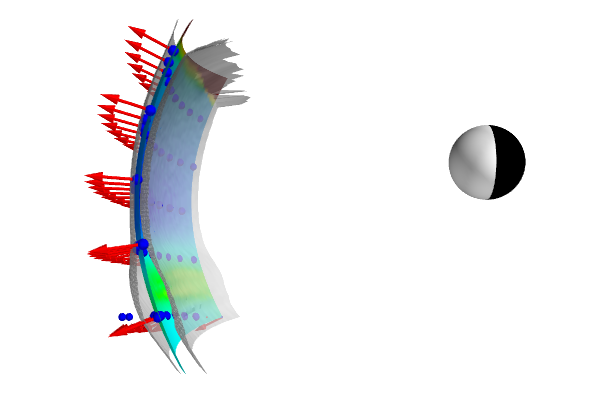
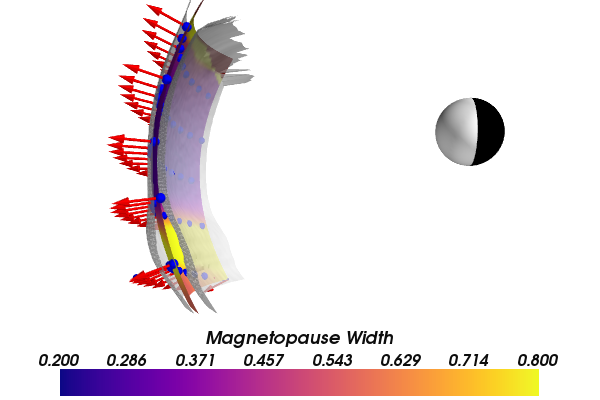
use all mvi wrappers in tests / examples

Changed region(s): [[0.06, 0.0, 0.93, 0.99], [0.72, 0.24, 0.9, 0.51]]

diff --git a/tests/test_mvi.py b/tests/test_mvi.py
@@ -4,19 +4,17 @@ streamlines or something """
 
 from __future__ import print_function
 import argparse
-import sys
 
 from viscid_test_common import sample_dir, next_plot_fname, xfail
-
-try:
-    from mayavi import mlab
-except ImportError:
-    xfail("Mayavi not installed")
 
 import numpy as np
 import viscid
 from viscid import vutil
-from viscid.plot import mvi
+try:
+    from viscid.plot import mvi
+except ImportError:
+    xfail("Mayavi not installed")
+
 
 def main():
     parser = argparse.ArgumentParser(description="Test calc")
@@ -39,7 +37,7 @@ def main():
                                cmap="inferno", logscale=True)
     scp.implicit_plane.normal = [0, 0, -1]
     scp.implicit_plane.origin = [0, 0, 0]
-    cbar = mlab.colorbar(scp, title=pp.name, orientation='vertical')
+    cbar = mvi.colorbar(scp, title=pp.name, orientation='vertical')
 
     ######################################
     # plot a vector cut plane of the flow
@@ -87,7 +85,7 @@ def main():
     bsl2.start()
     bsl2.seed.widget.enabled = False
 
-    cbar = mlab.colorbar(bsl2, title=epar.name, orientation='horizontal')
+    cbar = mvi.colorbar(bsl2, title=epar.name, orientation='horizontal')
     cbar.scalar_bar_representation.position = (0.2, 0.01)
     cbar.scalar_bar_representation.position2 = (0.6, 0.14)
 
@@ -109,18 +107,18 @@ def main():
 
     ####################
     # Finishing Touches
-    # mlab.axes(pp_src, nb_labels=5)
-    oa = mlab.orientation_axes()
+    # mvi.axes(pp_src, nb_labels=5)
+    oa = mvi.orientation_axes()
     oa.marker.set_viewport(0.75, 0.75, 1.0, 1.0)
 
     mvi.resize([1200, 800])
-    mlab.view(azimuth=45, elevation=70, distance=35.0, focalpoint=[-2, 0, 0])
+    mvi.view(azimuth=45, elevation=70, distance=35.0, focalpoint=[-2, 0, 0])
 
     ##############
     # Save Figure
 
     # print("saving png")
-    # mvi.mlab.savefig('mayavi_msphere_sample.png')
+    # mvi.savefig('mayavi_msphere_sample.png')
     # print("saving x3d")
     # # x3d files can be turned into COLLADA files with meshlab, and
     # # COLLADA (.dae) files can be opened in OS X's preview
@@ -128,12 +126,12 @@ def main():
     # # IMPORTANT: for some reason, using bounding_lat in mvi.plot_ionosphere
     # #            causes a segfault when saving x3d files
     # #
-    # mvi.mlab.savefig('mayavi_msphere_sample.x3d')
+    # mvi.savefig('mayavi_msphere_sample.x3d')
     # print("done")
 
     mvi.savefig(next_plot_fname(__file__))
     if args.show:
-        mlab.show()
+        mvi.show()
 
 if __name__ == "__main__":
     main()

diff --git a/viscid/calculator/separator.py b/viscid/calculator/separator.py
@@ -69,10 +69,10 @@ def trace_separator(grid, b_slcstr="x=-25f:15f, y=-30f:30f, z=-15f:15f",
         if plot:
             from viscid.plot import mvi
             mvi.plot_earth_3d(crd_system='gse')
-            mvi.mlab.points3d(nulls2[0], nulls2[1], nulls2[2],
-                              color=(0, 0, 0), scale_factor=1.0)
-            mvi.mlab.points3d(nulls[0, nullind], nulls[1, nullind], nulls[2, nullind],
-                              color=(1, 1, 1), scale_factor=1.0)
+            mvi.points3d(nulls2[0], nulls2[1], nulls2[2],
+                         color=(0, 0, 0), scale_factor=1.0)
+            mvi.points3d(nulls[0, nullind], nulls[1, nullind], nulls[2, nullind],
+                         color=(1, 1, 1), scale_factor=1.0)
 
         seed = viscid.Sphere(p0=p0, r=r, ntheta=30, nphi=60,
                              theta_endpoint=True, phi_endpoint=True)
@@ -327,7 +327,7 @@ def _get_sep_pts_bisect(fld, seed, trace_opts=None, min_depth=3, max_depth=7,
         _, all_topo = viscid.calc_streamlines(fld, seed, **trace_opts)
         mpl.plot(np.bitwise_and(all_topo, 15), show=False)
         verts, arr = seed.wrap_mesh(all_topo.data)
-        mvi.mlab.mesh(verts[0], verts[1], verts[2], scalars=arr, opacity=0.75)
+        mvi.mesh(verts[0], verts[1], verts[2], scalars=arr, opacity=0.75)
 
     # quadrents and lines are indexed as follows...
     # directions are counter clackwise around the quadrent with
@@ -442,9 +442,9 @@ def _get_sep_pts_bisect(fld, seed, trace_opts=None, min_depth=3, max_depth=7,
         from viscid.plot import mvi
         from viscid.plot import mpl
         _pts3d = seed.to_3d(seed.uv_to_local(np.array([allx, ally])))
-        mvi.mlab.points3d(_pts3d[0], _pts3d[1], _pts3d[2],
-                          all_topo.data.reshape(-1), scale_mode='none',
-                          scale_factor=0.02)
+        mvi.points3d(_pts3d[0], _pts3d[1], _pts3d[2],
+                      all_topo.data.reshape(-1), scale_mode='none',
+                      scale_factor=0.02)
         mpl.plt.scatter(allx, ally, color=np.bitwise_and(all_topo, 15),
                         vmin=0, vmax=15, marker='o', edgecolor='y', s=40)
 

diff --git a/viscid/calculator/mpause.py b/viscid/calculator/mpause.py
@@ -389,26 +389,26 @@ def main():
     # mayavi 3d plots, normals look better here
     if True:  # pylint: disable=using-constant-test
         from viscid.plot import mvi
-        mvi.mlab.points3d(x[::skip], y[::skip], z[::skip], scale_factor=0.25,
-                          color=(0.0, 0.0, 1.0))
+        mvi.points3d(x[::skip], y[::skip], z[::skip], scale_factor=0.25,
+                     color=(0.0, 0.0, 1.0))
 
         mp_width = mp['mp_width']['x=0']
         mp_sheath_edge = mp['mp_sheath_edge']['x=0']
         mp_sphere_edge = mp_sheath_edge - mp_width
 
-        mvi.mlab.mesh(x2, Y, Z, scalars=mp_width.data)
-        mvi.mlab.mesh(mp_sheath_edge.data, Y, Z, opacity=0.75, color=(0.75, ) * 3)
-        mvi.mlab.mesh(mp_sphere_edge.data, Y, Z, opacity=0.75, color=(0.75, ) * 3)
+        mvi.mesh(x2, Y, Z, scalars=mp_width.data)
+        mvi.mesh(mp_sheath_edge.data, Y, Z, opacity=0.75, color=(0.75, ) * 3)
+        mvi.mesh(mp_sphere_edge.data, Y, Z, opacity=0.75, color=(0.75, ) * 3)
 
         n = paraboloid_normal(Y, Z, *mp['paraboloid'][0]).reshape(3, -1)[:, ::skip]
-        mvi.mlab.quiver3d(x2.reshape(-1)[::skip],
-                          Y.reshape(-1)[::skip],
-                          Z.reshape(-1)[::skip],
-                          n[0], n[1], n[2], color=(1, 0, 0))
-        mvi.mlab.quiver3d(x2.reshape(-1)[::skip],
-                          Y.reshape(-1)[::skip],
-                          Z.reshape(-1)[::skip],
-                          minvar_n[0], minvar_n[1], minvar_n[2], color=(0, 0, 1))
+        mvi.quiver3d(x2.reshape(-1)[::skip],
+                     Y.reshape(-1)[::skip],
+                     Z.reshape(-1)[::skip],
+                     n[0], n[1], n[2], color=(1, 0, 0))
+        mvi.quiver3d(x2.reshape(-1)[::skip],
+                     Y.reshape(-1)[::skip],
+                     Z.reshape(-1)[::skip],
+                     minvar_n[0], minvar_n[1], minvar_n[2], color=(0, 0, 1))
         mvi.show()
 
 if __name__ == "__main__":

diff --git a/tests/test_quasi_potential.py b/tests/test_quasi_potential.py
@@ -9,16 +9,14 @@ import sys
 
 from viscid_test_common import sample_dir, next_plot_fname, xfail
 
-try:
-    from mayavi import mlab
-except ImportError:
-    xfail("Mayavi not installed")
-
 import numpy as np
 import viscid
 from viscid import vutil
 from viscid.plot import mpl
-from viscid.plot import mvi
+try:
+    from viscid.plot import mvi
+except ImportError:
+    xfail("Mayavi not installed")
 
 
 def make_arcade(eps, xl=(-10.0, 0.0, -10.0), xh=(10.0, 20.0, 10.0),
@@ -77,19 +75,19 @@ def main():
     inds = np.concatenate([inds, np.arange(len(xi_dat))[::71]])
     s = mvi.plot_lines(b_lines[inds], scalars=epar, cmap='viridis')
     mvi.mesh_from_seeds(seeds, scalars=xi, cmap='inferno')
-    mvi.mlab.colorbar(s, orientation='horizontal', title=epar.pretty_name)
+    mvi.colorbar(s, orientation='horizontal', title=epar.pretty_name)
     # mvi.streamline(b, scalars=e, seedtype='sphere', seed_resolution=4,
     #                integration_direction='both')
 
-    oa = mlab.orientation_axes()
+    oa = mvi.orientation_axes()
     oa.marker.set_viewport(0.75, 0.75, 1.0, 1.0)
     mvi.resize([1200, 800])
-    mlab.view(roll=0, azimuth=90, elevation=25, distance=30.0,
-              focalpoint=[0, 2, 0])
+    mvi.view(roll=0, azimuth=90, elevation=25, distance=30.0,
+             focalpoint=[0, 2, 0])
 
     mvi.savefig(next_plot_fname(__file__))
     if args.show:
-        mlab.show()
+        mvi.show()
 
 if __name__ == "__main__":
     main()

diff --git a/viscid/seed.py b/viscid/seed.py
@@ -647,9 +647,8 @@ class Plane(SeedGen):
             >>> xyz = p0 + np.dot(lmn_to_xyz, lmn)
             >>>
             >>> from viscid.plot import mvi
-            >>> verts = plane.as_mesh()
-            >>> mvi.mlab.mesh(verts[0], verts[1], verts[2])
-            >>> mvi.mlab.points3d(xyz[0], xyz[1], xyz[2])
+            >>> mvi.mesh_from_seeds(plane)
+            >>> mvi.points3d(xyz[0], xyz[1], xyz[2])
             >>> mvi.show()
 
             >>> # Transform vector compenents from xyz to lmn
@@ -676,12 +675,11 @@ class Plane(SeedGen):
             >>> # use xyz to show in 3d via mayavi
             >>> from viscid.plot import mvi
             >>> verts, s = plane.wrap_mesh(Blmn['z'].data)
-            >>> mvi.mlab.mesh(verts[0], verts[1], verts[2], scalars=s)
+            >>> mvi.mesh(verts[0], verts[1], verts[2], scalars=s)
             >>> verts, vx, vy, vz = plane.wrap_mesh(B_interp['x'].data,
             >>>                                     B_interp['y'].data,
             >>>                                     B_interp['z'].data)
-            >>> mvi.mlab.quiver3d(verts[0], verts[1], verts[2],
-            >>>                   vx, vy, vz)
+            >>> mvi.quiver3d(verts[0], verts[1], verts[2], vx, vy, vz)
             >>> mvi.show()
             >>>
             >>> # use lmn to show in-plane / out-of-plane

diff --git a/tests/test_seed.py b/tests/test_seed.py
@@ -47,10 +47,10 @@ def run_test(fld, seeds, plot2d=True, plot3d=True, add_title="",
         pts = seeds.get_points()
         p = mvi.points3d(pts[0], pts[1], pts[2], interpolated_fld.flat_data,
                          scale_mode='none', scale_factor=0.02)
-        mvi.mlab.axes(p)
-        mvi.mlab.title(seed_name)
+        mvi.axes(p)
+        mvi.title(seed_name)
         if view_kwargs:
-            mvi.mlab.view(**view_kwargs)
+            mvi.view(**view_kwargs)
 
         mvi.savefig(next_plot_fname(__file__, series='3d'))
         if show:

diff --git a/tests/test_streamline.py b/tests/test_streamline.py
@@ -54,7 +54,7 @@ def run_test(_fld, _seeds, plot2d=True, plot3d=True, title='', show=False,
         mvi.plot_lines(lines, scalars=fld_mag, tube_radius=0.01,
                        cmap='viridis')
         if title:
-            mvi.mlab.title(title)
+            mvi.title(title)
 
         mvi.savefig(next_plot_fname(__file__, series='3d'))
         if show:

diff --git a/doc/examples/magnetopause.rst b/doc/examples/magnetopause.rst
@@ -48,42 +48,40 @@ Viscid has the ability to extract magnetopause information using :py:func:`visci
       lmn = viscid.find_minvar_lmn_around(f['b'], p0, l=2.0, n=64)
       minvar_n[:, i] = lmn[2, :]
 
-  fig = mvi.mlab.gcf()
-  fig.scene.background = (1.0, 1.0, 1.0)
-  fig.scene.foreground = (0.05, 0.05, 0.05)
+  fig = mvi.mlab.figure(bgcolor=(1.0, 1.0, 1.0), fgcolor=(0.05, 0.05, 0.05),
+                        size=(600, 400))
 
-  grey = (0.75, ) * 3
+  grey = (0.80, ) * 3
   red = (1, 0, 0)
   blue = (0, 0, 1)
 
-  mvi.mlab.points3d(x[::skip], y[::skip], z[::skip], scale_factor=0.25,
-                    color=blue)
+  mvi.points3d(x[::skip], y[::skip], z[::skip], scale_factor=0.25, color=blue)
 
   mp_width = mp['mp_width']['x=0']
   mp_sheath_edge = mp['mp_sheath_edge']['x=0']
   mp_sphere_edge = mp_sheath_edge - mp_width
 
-  mvi.mlab.mesh(x2, Y, Z, scalars=mp_width.data)
-  mvi.mlab.mesh(mp_sheath_edge.data, Y, Z, opacity=0.75, color=grey)
-  mvi.mlab.mesh(mp_sphere_edge.data, Y, Z, opacity=0.75, color=grey)
+  mvi.mesh(x2, Y, Z, scalars=mp_width.data, clim=(0.2, 0.8), cmap='plasma')
+  mvi.mesh(mp_sheath_edge.data, Y, Z, opacity=0.75, color=grey)
+  mvi.mesh(mp_sphere_edge.data, Y, Z, opacity=0.75, color=grey)
 
-  mvi.mlab.quiver3d(x2.reshape(-1)[::skip],
-                    Y.reshape(-1)[::skip],
-                    Z.reshape(-1)[::skip],
-                    parab_n[0], parab_n[1], parab_n[2], color=red,
-                    mode='arrow')
-  mvi.mlab.quiver3d(x2.reshape(-1)[::skip],
-                    Y.reshape(-1)[::skip],
-                    Z.reshape(-1)[::skip],
-                    minvar_n[0], minvar_n[1], minvar_n[2], color=blue,
-                    mode='arrow')
+  mvi.quiver3d(x2.reshape(-1)[::skip],
+               Y.reshape(-1)[::skip],
+               Z.reshape(-1)[::skip],
+               parab_n[0], parab_n[1], parab_n[2], color=red,
+               mode='arrow')
+  mvi.quiver3d(x2.reshape(-1)[::skip],
+               Y.reshape(-1)[::skip],
+               Z.reshape(-1)[::skip],
+               minvar_n[0], minvar_n[1], minvar_n[2], color=blue,
+               mode='arrow')
 
   mvi.plot_earth_3d(crd_system="gse")
+  mvi.colorbar(title="Magnetopause Width")
 
-  mvi.resize([600, 400])
-  mvi.mlab.view(azimuth=+90.0, elevation=90.0,
-                distance=20.0, focalpoint=(5.0, 0.0, -1.0))
+  mvi.view(azimuth=+90.0, elevation=90.0,
+           distance=22.0, focalpoint=(5.0, 0.0, -2.0))
   mvi.savefig("mpause-000.png")
-  mvi.mlab.view(azimuth=+90.0 - 45.0, elevation=90.0 - 25.0,
-                distance=20.0, focalpoint=(6.0, 0.0, -1.0))
+  mvi.view(azimuth=+90.0 - 45.0, elevation=90.0 - 25.0,
+           distance=25.0, focalpoint=(6.0, 0.0, -3.0))
   mvi.savefig("mpause-001.png")

diff --git a/doc/functions.rst b/doc/functions.rst
@@ -206,11 +206,11 @@ Function                                         Description
 :py:func:`viscid.plot.mvi.points3d`              Plot a list of points
 :py:func:`viscid.plot.mvi.quiver3d`              Plot a list of vector arrows with optional scalar data
 :py:func:`viscid.plot.mvi.colorbar`              Wrap `mayavi.mlab.colorbar`, then change the colormap if any
-                                                 `viscid.plot.mvi.apply_cmap` kwargs are provided
+                                                 :py:func:`viscid.plot.mvi.apply_cmap` kwargs are provided
 :py:func:`viscid.plot.mvi.scalarbar`             Wrap `mayavi.mlab.scalarbar`, then change the colormap if any
-                                                 `viscid.plot.mvi.apply_cmap` kwargs are provided
+                                                 :py:func:`viscid.plot.mvi.apply_cmap` kwargs are provided
 :py:func:`viscid.plot.mvi.vectorbar`             Wrap `mayavi.mlab.vectorbar`, then change the colormap if any
-                                                 `viscid.plot.mvi.apply_cmap` kwargs are provided
+                                                 :py:func:`viscid.plot.mvi.apply_cmap` kwargs are provided
 :py:func:`viscid.plot.mvi.axes`                  Wrap `mayavi.mlab.axes`
 :py:func:`viscid.plot.mvi.xlabel`                Wrap `mayavi.mlab.xlabel`
 :py:func:`viscid.plot.mvi.ylabel`                Wrap `mayavi.mlab.ylabel`
